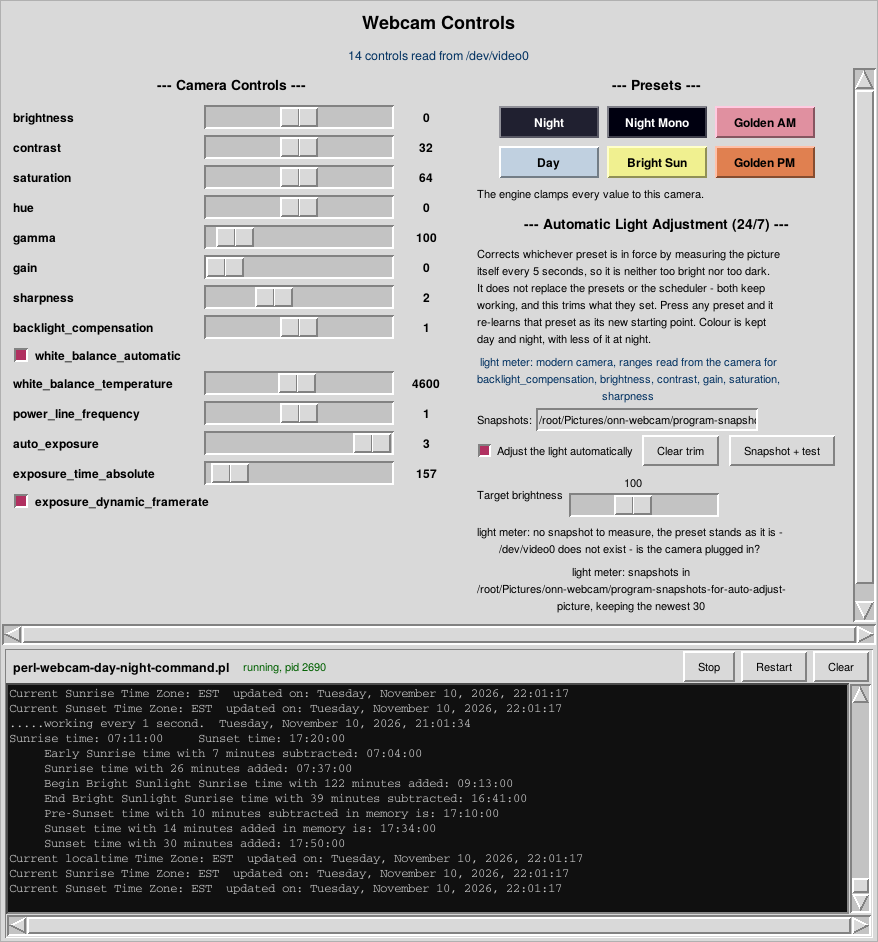
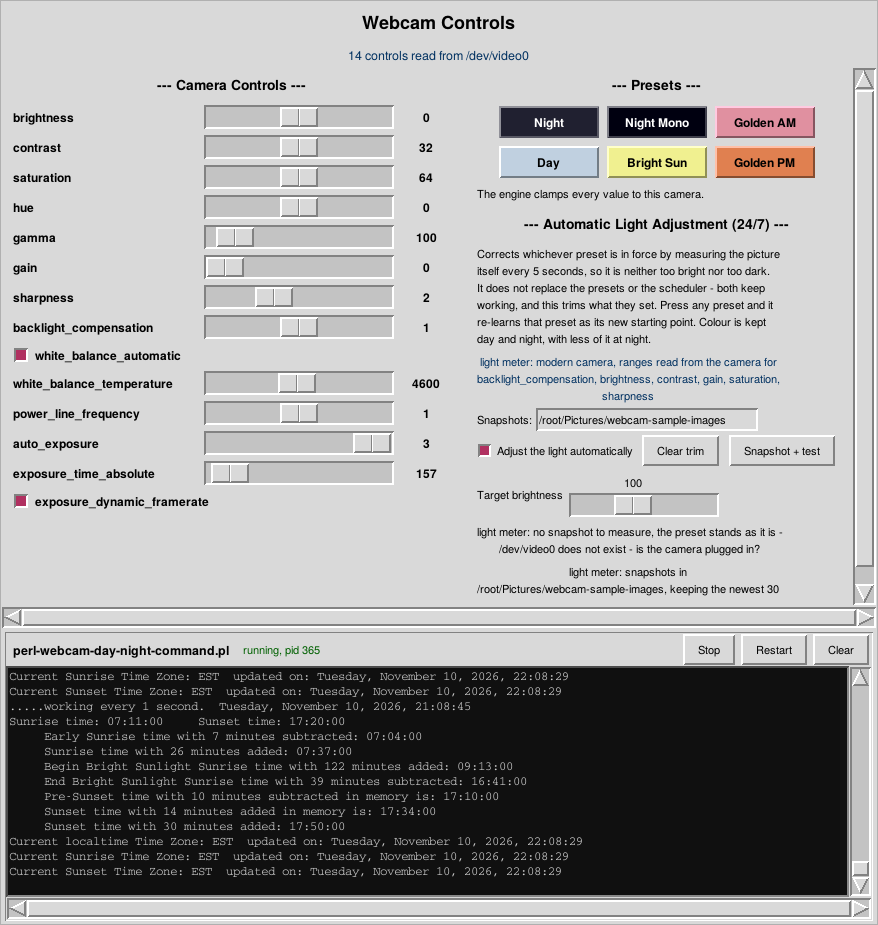
Default the snapshot folder to ~/Pictures/webcam-sample-images
The old default named the camera that happened to be plugged in when this
was written, which made a folder of plain webcam stills look like it belonged
to one particular program. The new name says what is in it. Changed in both
webcam-GUI.pl and perl-webcam-day-night-command.pl, which have to agree or
the two of them measure different folders.

The old folder is kept in the list of places looked at, so an installation
that has been filling it for months is still found rather than starting over
with nothing to measure. WEBCAM_SNAPSHOT still overrides either.

README and screenshot updated to the new path.

Claude-Session: https://claude.ai/code/session_01FMAna5H7yYWpn81v9dAabE

diff --git a/README.md b/README.md
@@ -483,11 +483,15 @@ export WEBCAM_TARGET=100        # target grey level out of 255, optional
 export WEBCAM_DEVICE=/dev/video0
 ```
 
-The default folder is
-`~/Pictures/onn-webcam/program-snapshots-for-auto-adjust-picture` under
+The default folder is `~/Pictures/webcam-sample-images` under
 whoever's home directory the program is running as - no user name is written
 into any of this. `$HOME` is used when it is set, and the password database
 when it is not, which is the case under some cron and systemd setups.
+
+The folder used to be
+`~/Pictures/onn-webcam/program-snapshots-for-auto-adjust-picture`, and that
+one is still looked in if it exists, so an installation that has been filling
+it for months is not left with nothing to measure.
 
 **Taking the snapshots.** That one folder is created at startup if it is not
 already there, parent folders and all. Nothing else is ever created.
